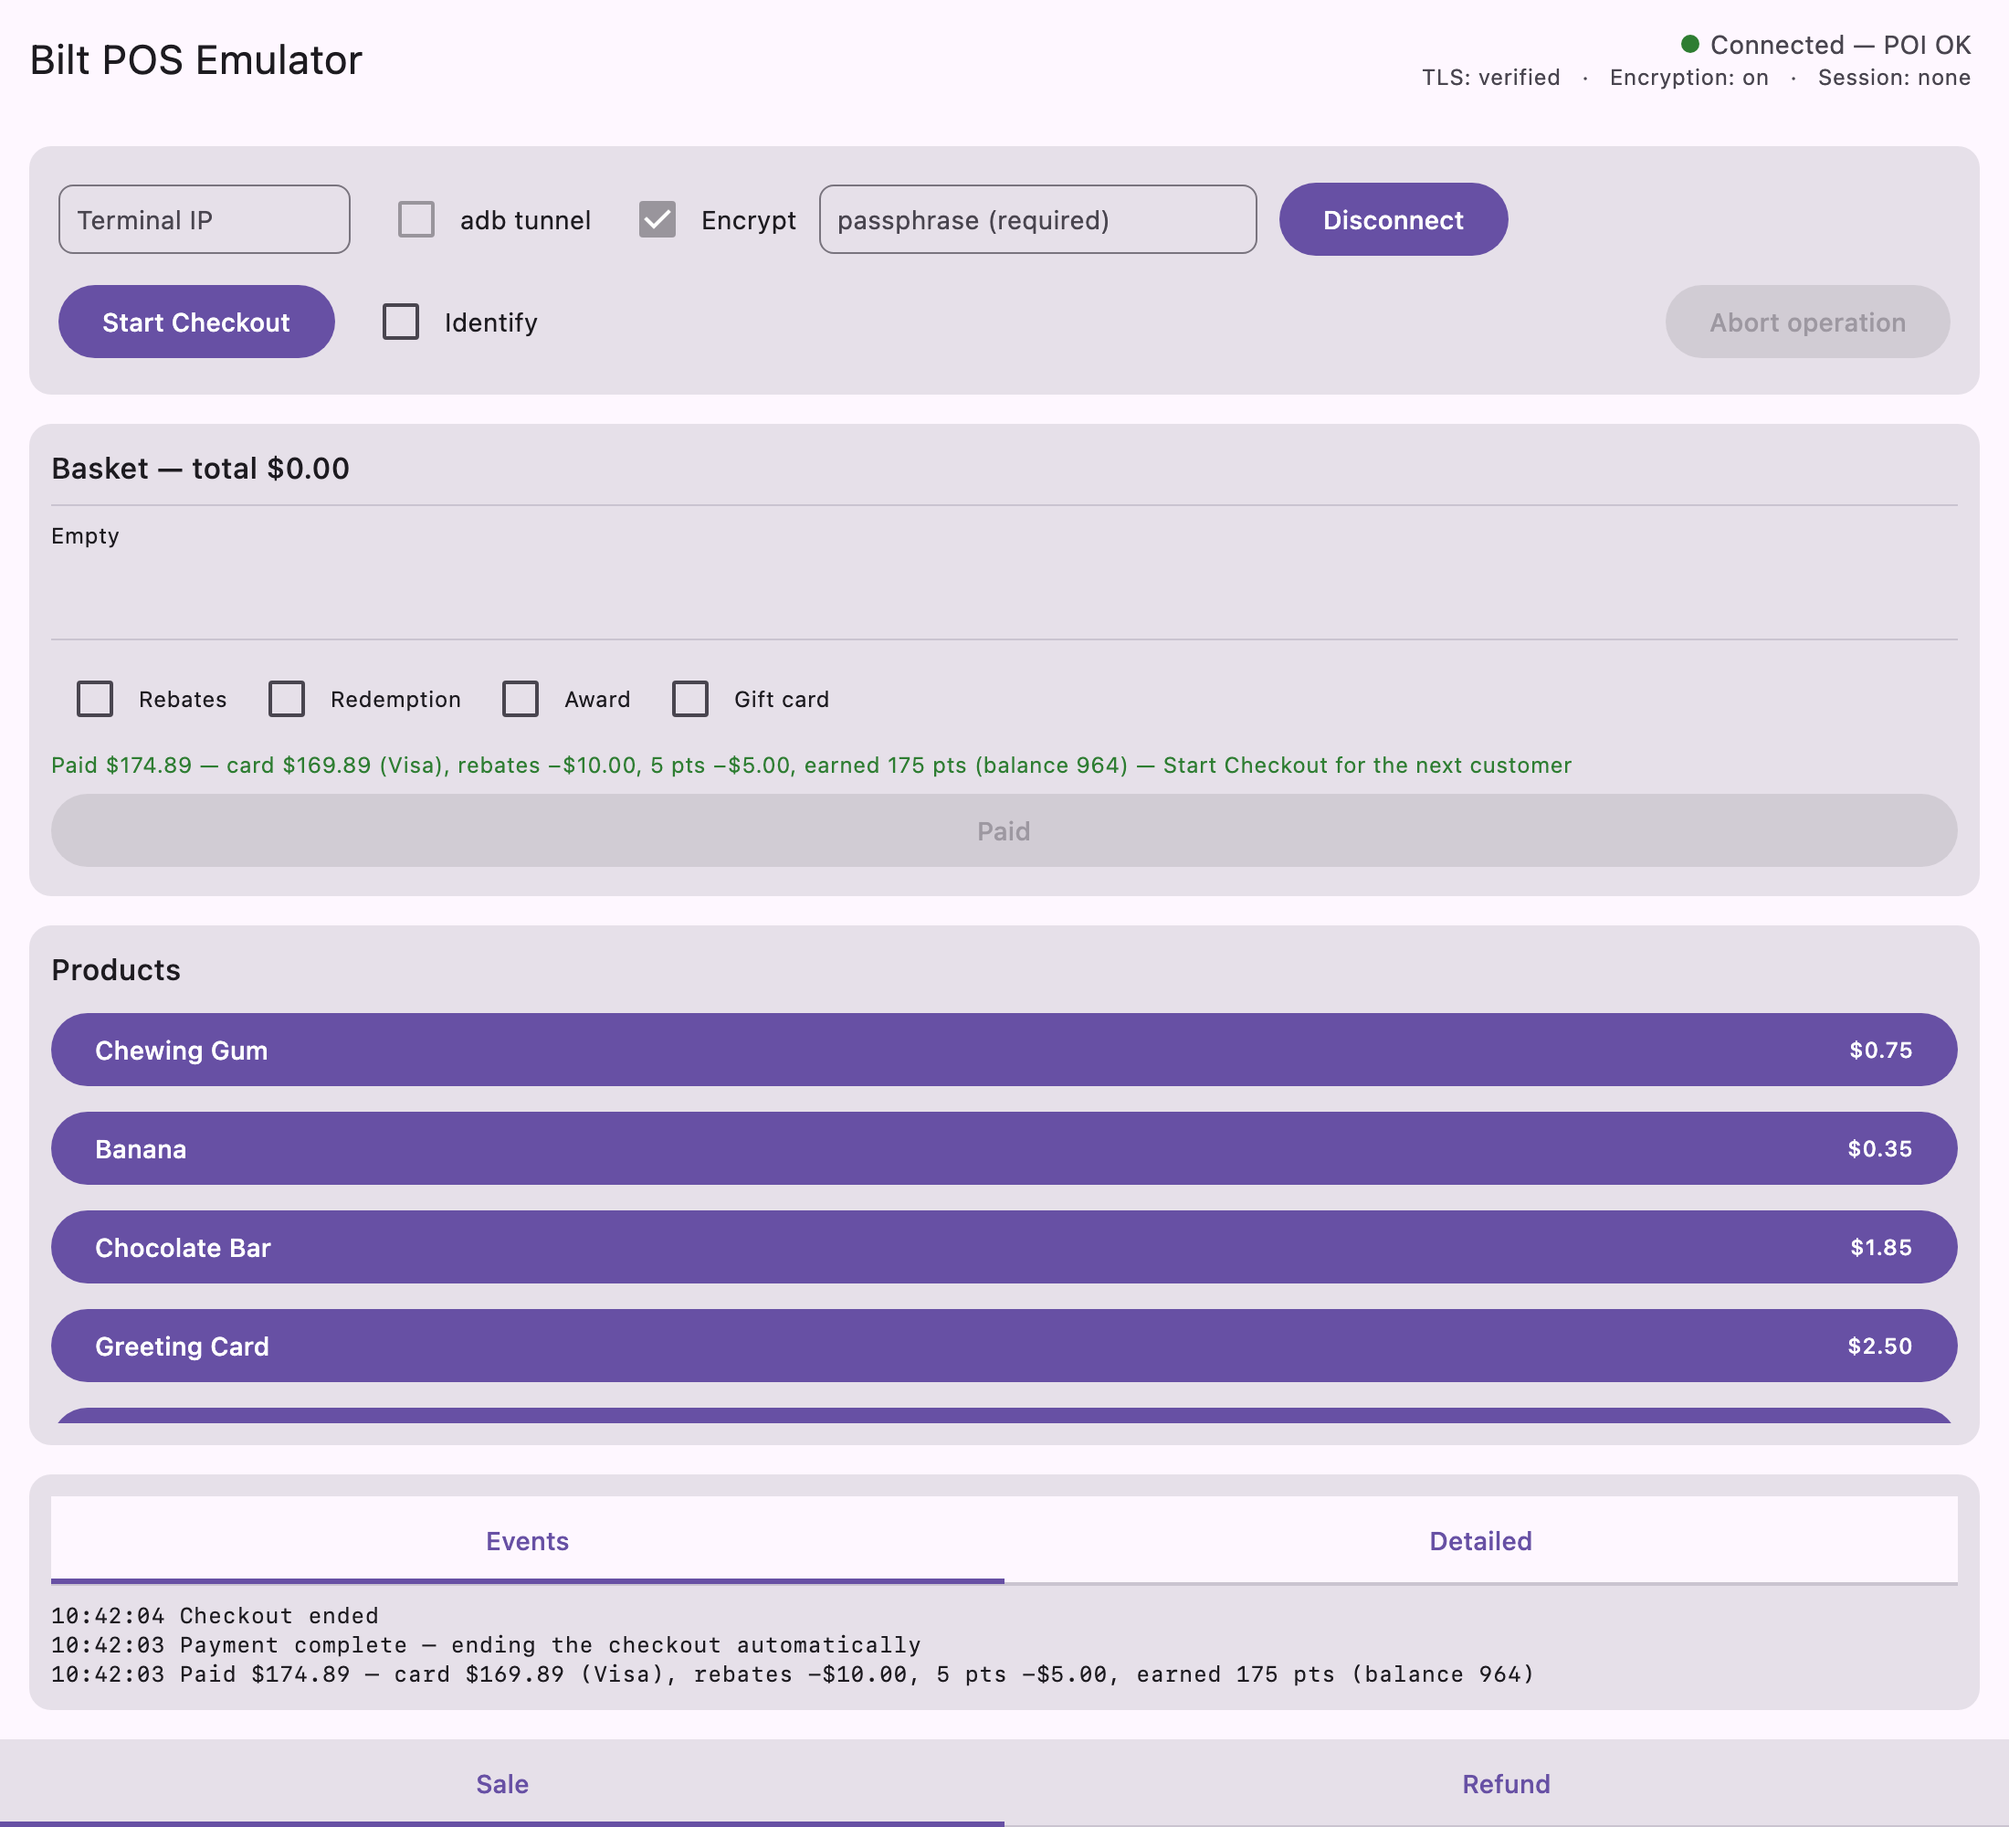
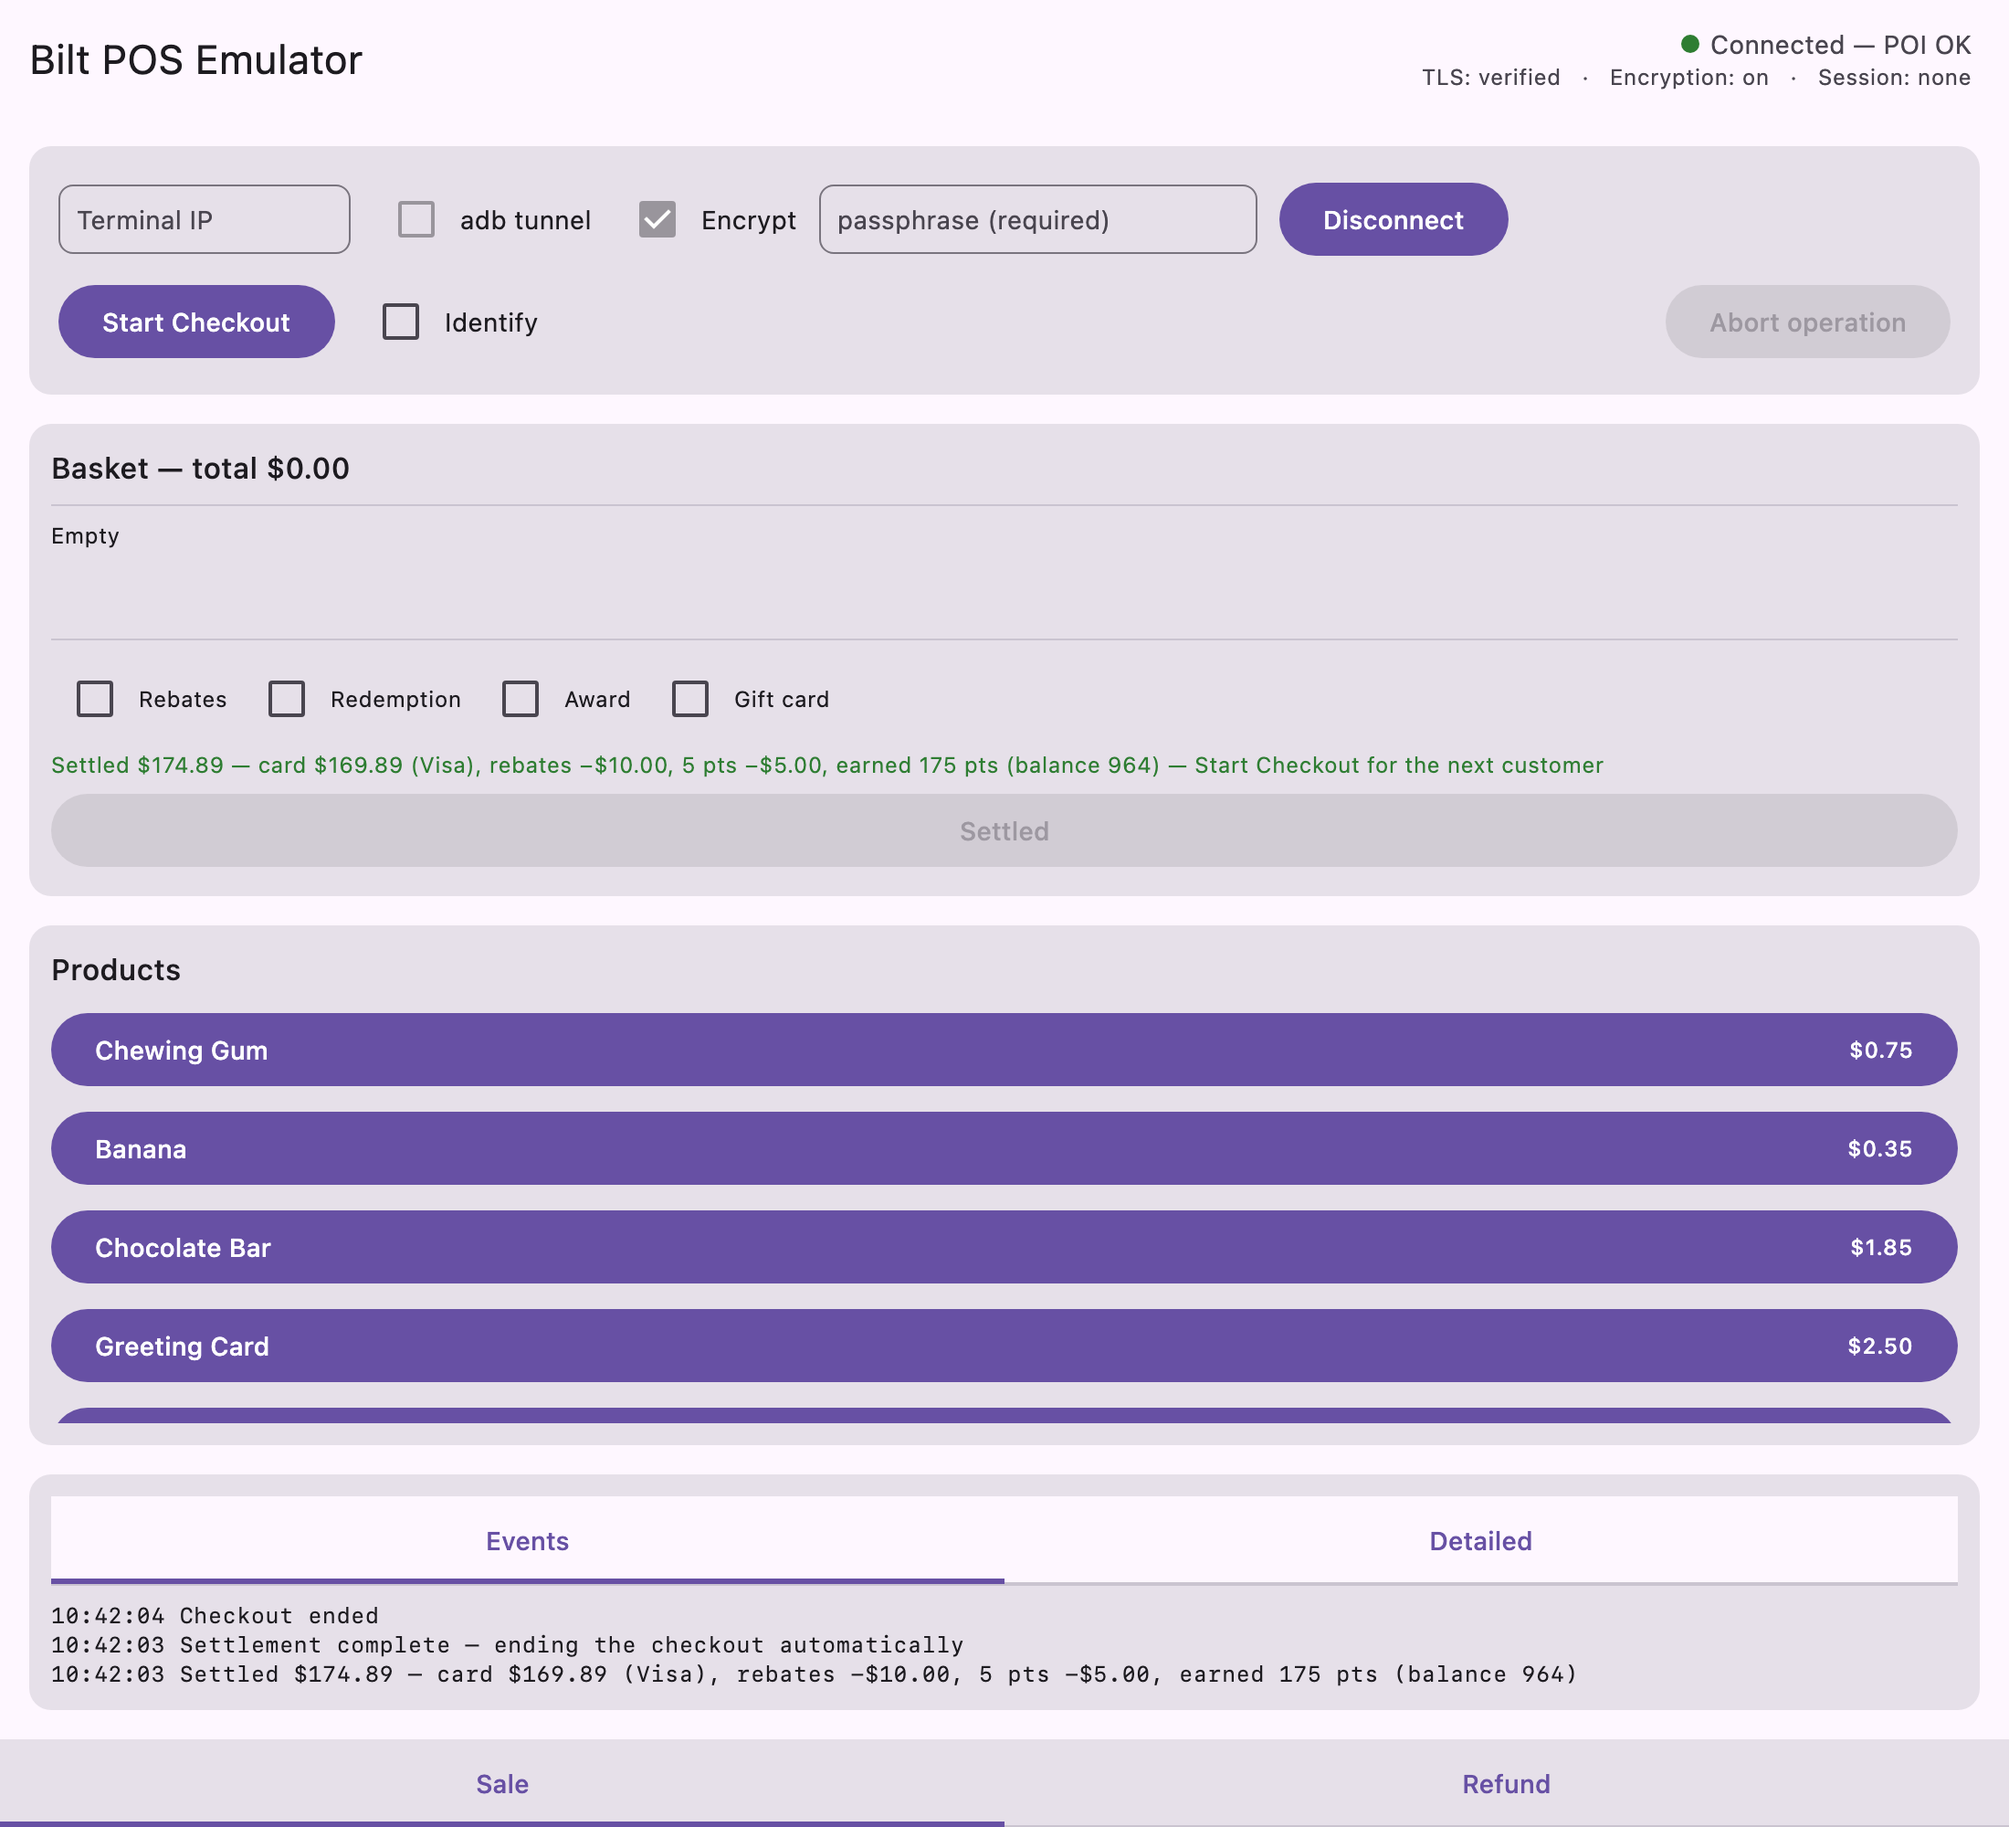
Settle, not Pay: the button and wording cover refund-heavy baskets
A basket whose returns exceed its additions rendered as "Pay $-19.24".
The settlement collects, refunds, or both — across mixed tenders — so the
verb is now Settle everywhere: the button reads "Settle $32.75" or
"Settle (refund $19.24)" for a net-negative basket, with Settling…/
Settled states, and the outcome wording follows ("Settlement complete",
"Settled $X — returned $Y to the card, …").

Changed region(s): [[0.0309, 0.403, 0.7727, 0.465], [0.0927, 0.899, 0.7727, 0.93]]

diff --git a/emulator/shared/src/jvmShared/kotlin/com/bilt/pos/emulator/session/NexoEmulatorController.kt b/emulator/shared/src/jvmShared/kotlin/com/bilt/pos/emulator/session/NexoEmulatorController.kt
@@ -778,11 +778,11 @@ class NexoEmulatorController(
             .onError { error ->
                 attempt = PaymentAttempt.FAILED
                 if (connection === conn) {
-                    log("Payment failed: ${error.code} — ${error.message}")
+                    log("Settlement failed: ${error.code} — ${error.message}")
                     _state.update {
                         it.copy(paymentOutcome = PaymentOutcome(
                             success = false,
-                            title = "Payment failed",
+                            title = "Settlement failed",
                             message = "${error.code}\n${error.message}",
                         ))
                     }
@@ -800,7 +800,7 @@ class NexoEmulatorController(
                 val returnParts = recordSettledReturns(conn, returns, result)
                 if (connection === conn) {
                     publishPaymentResult(result, returnParts)
-                    log("Payment complete — ending the checkout automatically")
+                    log("Settlement complete — ending the checkout automatically")
                     endCompletedCheckout(conn, session)
                 }
             }
@@ -808,8 +808,8 @@ class NexoEmulatorController(
                 if (attempt != PaymentAttempt.SUCCEEDED && connection === conn) {
                     if (attempt == PaymentAttempt.RUNNING) {
                         log(
-                            "Payment aborted; committed steps reversed — " +
-                                "the basket is intact, Pay again to retry"
+                            "Settlement aborted; committed steps reversed — " +
+                                "the basket is intact, Settle again to retry"
                         )
                     }
                     // reset the customer display to the intact basket
@@ -1513,12 +1513,12 @@ class NexoEmulatorController(
                 add("earned ${result.totalPointsEarned} pts (balance ${result.pointsBalance})")
             }
         }
-        val summary = "Paid $${result.authorizedAmount.toPlainString()}" +
+        val summary = "Settled $${result.authorizedAmount.toPlainString()}" +
             (if (parts.isEmpty()) "" else " — " + parts.joinToString(", "))
         // the popup carries the promo messages and warnings that otherwise
         // live only in the event log
         val popup = buildList {
-            add("Paid $${result.authorizedAmount.toPlainString()}")
+            add("Settled $${result.authorizedAmount.toPlainString()}")
             addAll(parts)
             result.promotionMessages.forEach { add(it) }
             result.warnings.forEach { add("Warning: $it") }
@@ -1528,7 +1528,7 @@ class NexoEmulatorController(
                 lastPayment = summary,
                 paymentOutcome = PaymentOutcome(
                     success = true,
-                    title = "Payment successful",
+                    title = "Settlement complete",
                     message = popup,
                     receipt = receiptText(result.customerReceipt, result.merchantReceipt),
                 ),

diff --git a/emulator/shared/src/desktopTest/kotlin/com/bilt/pos/emulator/ScreenshotGenerator.kt b/emulator/shared/src/desktopTest/kotlin/com/bilt/pos/emulator/ScreenshotGenerator.kt
@@ -106,17 +106,17 @@ class ScreenshotGenerator {
             basket = emptyList(),
             basketTotal = "0.00",
             basketTax = "0.00",
-            lastPayment = "Paid $174.89 — card $169.89 (Visa), rebates −$10.00, " +
+            lastPayment = "Settled $174.89 — card $169.89 (Visa), rebates −$10.00, " +
                 "5 pts −$5.00, earned 175 pts (balance 964)",
             events = midCheckout.events + listOf(
                 "10:41:40 Identifying member on the terminal…",
                 "10:41:47 Member identified: 98234 (K-Club), 789 pts, 1 reward(s)",
-                "10:41:48 Starting payment — rebates on, redemption on, award on",
+                "10:41:48 Starting settlement — rebates on, redemption on, award on",
                 "10:41:50 Rebates applied: −$10.00 → total $179.89",
                 "10:41:51 Points redeemed: 5 (−$5.00) → total $174.89",
-                "10:42:03 Paid $174.89 — card $169.89 (Visa), rebates −$10.00, " +
+                "10:42:03 Settled $174.89 — card $169.89 (Visa), rebates −$10.00, " +
                     "5 pts −$5.00, earned 175 pts (balance 964)",
-                "10:42:03 Payment complete — ending the checkout automatically",
+                "10:42:03 Settlement complete — ending the checkout automatically",
                 "10:42:04 Checkout ended",
             ),
         )

diff --git a/emulator/shared/src/commonMain/kotlin/com/bilt/pos/emulator/EmulatorApp.kt b/emulator/shared/src/commonMain/kotlin/com/bilt/pos/emulator/EmulatorApp.kt
@@ -940,10 +940,14 @@ private fun PaymentControls(state: EmulatorState, controller: EmulatorController
             modifier = Modifier.fillMaxWidth(),
         ) {
             Text(
+                // "Settle", not "Pay": a settlement may collect, refund
+                // (returns exceed additions), or both across mixed tenders
                 when {
-                    state.paymentInProgress -> "Paying…"
-                    paid -> "Paid"
-                    else -> "Pay $${state.basketTotal}"
+                    state.paymentInProgress -> "Settling…"
+                    paid -> "Settled"
+                    state.basketTotal.startsWith("-") ->
+                        "Settle (refund $${state.basketTotal.drop(1)})"
+                    else -> "Settle $${state.basketTotal}"
                 }
             )
         }
